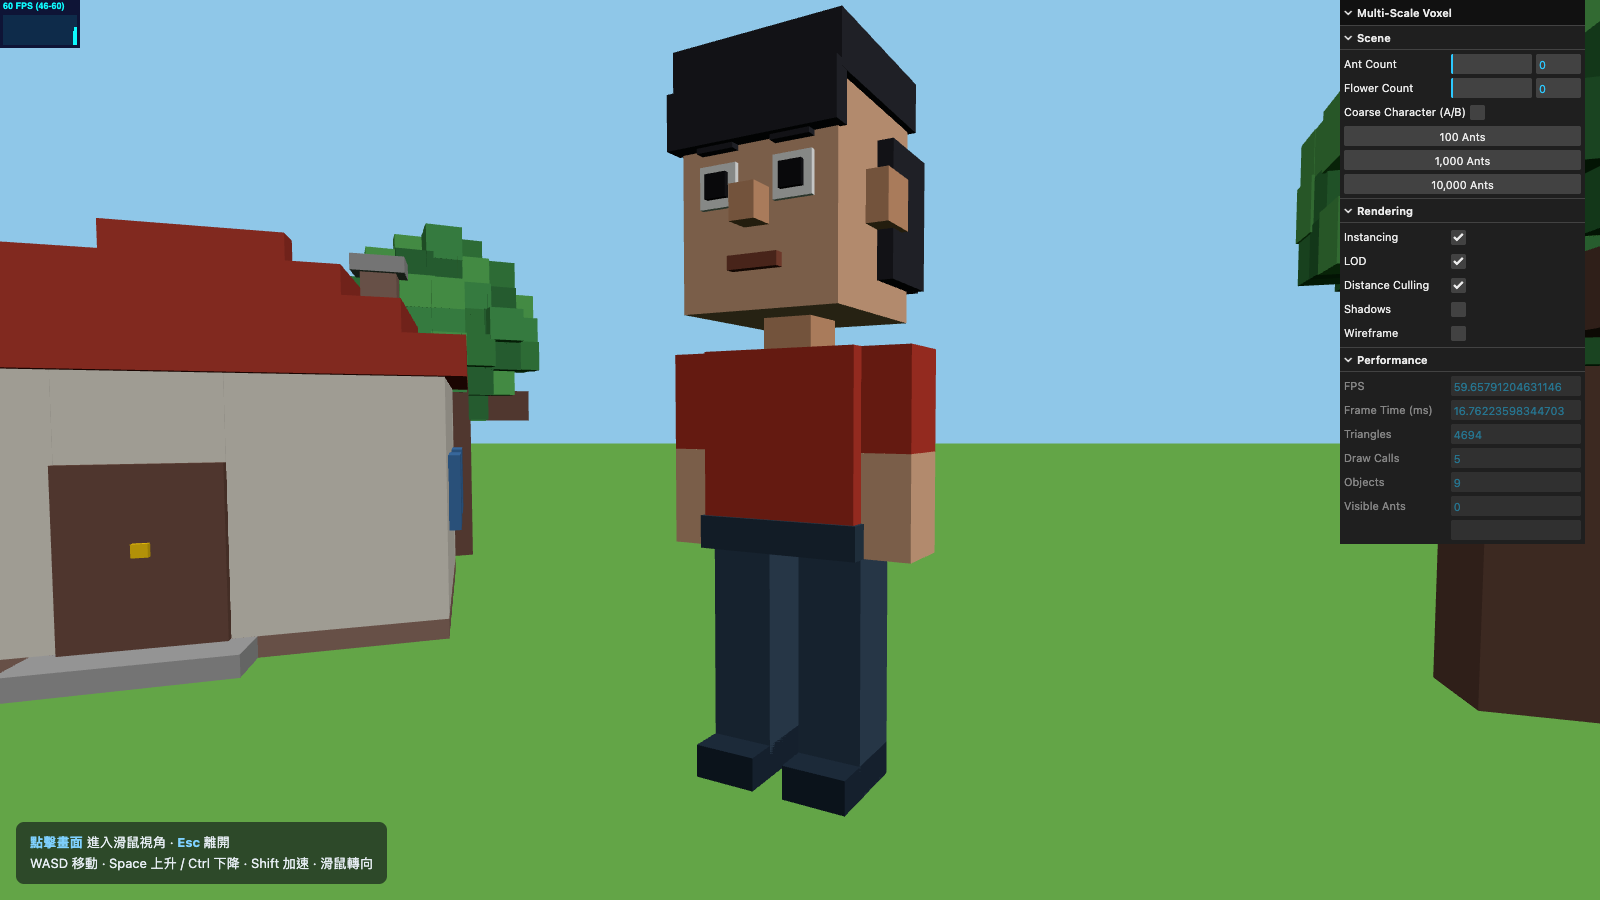
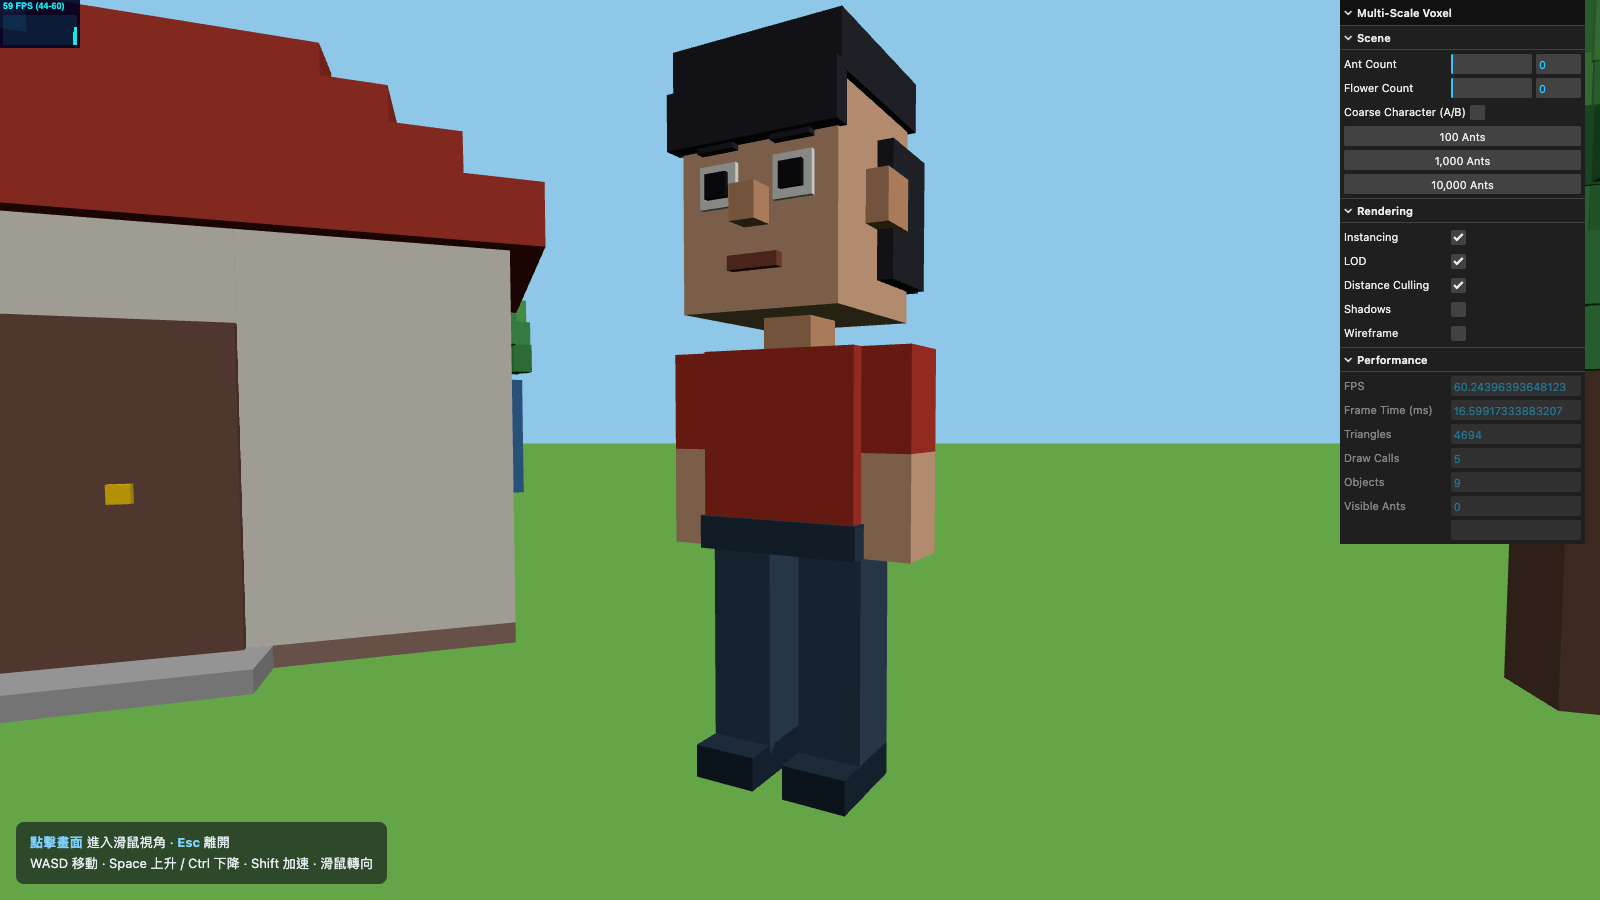
fix(world): 放大 House 使 PRD §7 的 House > Human 成立 (#7)
- House 整體約 1.25 倍放大：總高 21 → 31、門洞 8 → 14、佔地 24×18 → 30×22
- GROUND_ZONES 的 House 排除區半寬 13.5×12.5 → 17.5×15.5
- TREE_RADIUS 38 → 41，維持 House 屋簷與 Tree 樹冠的明確淨空
- house-facade 相機退到 z=27，避免拍進放大後的 Tree#2 樹冠
- 驗證報告補「尺度修正」段落，附 bbox 與 gl.readPixels 像素量測證據

diff --git a/src/objects/House.ts b/src/objects/House.ts
@@ -4,9 +4,12 @@ import { box, boxOnFloor, type VoxelModel } from '../voxel/Primitive';
  * House —— 粗粒度建築。
  *
  * 座標原點在房屋中心、地面高度 y = 0。
- * 佔地約 24 × 18，牆體使用 4 單位等級的方塊，屋頂為階梯式。
+ * 佔地約 30 × 22，牆體使用 4 單位等級的方塊，屋頂為階梯式。
+ *
+ * 尺度策略（PRD §7）：整體高約 31，明顯高於 Character（21.5），
+ * 使 `House > Human` 在視覺上成立。門洞高 14 仍小於角色身高，
+ * 角色不會實際走入，但 PRD §7 只要求視覺大小順序，未要求可進入。
  */
-
 const WALL = 0xd8d2c8;
 const FLOOR = 0x8d6e63;
 const ROOF = 0xb03a2e;
@@ -17,40 +20,40 @@ const STONE = 0x9e9e9e;
 export function createHouseModel(): VoxelModel {
   const primitives = [
     // 地板
-    boxOnFloor(0, 0, 0, 24, 1, 18, FLOOR),
+    boxOnFloor(0, 0, 0, 30, 1, 22, FLOOR),
 
-    // 四面外牆（厚度 2）
-    boxOnFloor(0, 1, -8, 24, 12, 2, WALL),
-    boxOnFloor(-11, 1, 0, 2, 12, 18, WALL),
-    boxOnFloor(11, 1, 0, 2, 12, 18, WALL),
+    // 四面外牆（厚度 2.5）
+    boxOnFloor(0, 1, -9.75, 30, 18, 2.5, WALL),
+    boxOnFloor(-13.75, 1, 0, 2.5, 18, 22, WALL),
+    boxOnFloor(13.75, 1, 0, 2.5, 18, 22, WALL),
 
-    // 前牆留門洞（x: -3 ~ 3，高 8）
-    boxOnFloor(-7.5, 1, 8, 9, 12, 2, WALL),
-    boxOnFloor(7.5, 1, 8, 9, 12, 2, WALL),
-    boxOnFloor(0, 9, 8, 6, 4, 2, WALL),
+    // 前牆留門洞（x: -4 ~ 4，高 14）
+    boxOnFloor(-9.5, 1, 9.75, 11, 18, 2.5, WALL),
+    boxOnFloor(9.5, 1, 9.75, 11, 18, 2.5, WALL),
+    boxOnFloor(0, 15, 9.75, 8, 4, 2.5, WALL),
 
     // 門
-    boxOnFloor(0, 1, 9.1, 6, 8, 0.6, WOOD),
-    boxOnFloor(0, 5, 9.5, 0.6, 0.6, 0.4, 0xf1c40f), // 門把
+    boxOnFloor(0, 1, 10.9, 8, 14, 0.8, WOOD),
+    boxOnFloor(0, 7.5, 11.4, 0.8, 0.8, 0.5, 0xf1c40f), // 門把
 
     // 側牆窗戶
-    box(-12.3, 7, -4, 0.6, 4, 4, GLASS),
-    box(-12.3, 7, 4, 0.6, 4, 4, GLASS),
-    box(12.3, 7, -4, 0.6, 4, 4, GLASS),
-    box(12.3, 7, 4, 0.6, 4, 4, GLASS),
+    box(-15.3, 10, -4, 0.8, 6, 6, GLASS),
+    box(-15.3, 10, 4, 0.8, 6, 6, GLASS),
+    box(15.3, 10, -4, 0.8, 6, 6, GLASS),
+    box(15.3, 10, 4, 0.8, 6, 6, GLASS),
 
     // 台階
-    boxOnFloor(0, 0, 10.5, 8, 1, 3, STONE),
+    boxOnFloor(0, 0, 12.75, 10, 1, 3.5, STONE),
 
-    // 屋頂（階梯式金字塔）
-    boxOnFloor(0, 13, 0, 26, 2, 20, ROOF),
-    boxOnFloor(0, 15, 0, 20, 2, 14, ROOF),
-    boxOnFloor(0, 17, 0, 14, 2, 8, ROOF),
-    boxOnFloor(0, 19, 0, 8, 2, 2, ROOF),
+    // 屋頂（階梯式金字塔，總高至 31）
+    boxOnFloor(0, 19, 0, 33, 3, 25, ROOF),
+    boxOnFloor(0, 22, 0, 26, 3, 18, ROOF),
+    boxOnFloor(0, 25, 0, 19, 3, 11, ROOF),
+    boxOnFloor(0, 28, 0, 12, 3, 4, ROOF),
 
     // 煙囪
-    boxOnFloor(8, 13, -5, 2, 7, 2, 0x8d6e63),
-    boxOnFloor(8, 20, -5, 3, 1, 3, STONE),
+    boxOnFloor(10, 19, -6, 2.5, 9, 2.5, 0x8d6e63),
+    boxOnFloor(10, 28, -6, 4, 1, 4, STONE),
   ];
 
   return { primitives };

diff --git a/src/world/placement.ts b/src/world/placement.ts
@@ -28,10 +28,11 @@ export const COARSE_CHARACTER_POSITION = { x: 1, z: 6 } as const;
 export const TREE_COUNT = 3;
 /**
  * 樹木距原點的距離。
- * 34 時 Tree#1 的樹冠邊緣 (z = -22.1) 幾乎貼上 House 屋簷 (z = -22)，
- * 雖然實測沒有真正相交，但視覺上像穿模；改為 38 留出明確淨空。
+ * House 放大（總高約 31）後屋簷後緣約在 z = -24.5，
+ * 半徑 38 時 Tree 樹冠前緣 (z = -25.7) 與屋簷僅剩 1.2 淨空，視覺上偏擠；
+ * 改為 41，樹冠前緣退到約 z = -28.3，維持與原設計相近的明確淨空。
  */
-export const TREE_RADIUS = 38;
+export const TREE_RADIUS = 41;
 
 /** 三棵樹均分在同一圓周上。 */
 export function treePositions(): readonly { readonly x: number; readonly z: number }[] {
@@ -43,11 +44,11 @@ export function treePositions(): readonly { readonly x: number; readonly z: numb
 
 /**
  * 排除區域。半寬已含物件實際佔地：
- * House 含屋簷（±13 / ±10）與台階（+z 至 0）、Tree 含樹冠（半徑 7.2）、
+ * House 含屋簷（±16.5 / ±12.5）與台階（+z 至 14.5）、Tree 含樹冠（半徑 7.2）、
  * Character 含手臂與鞋子。呼叫端再依物件大小加上額外 margin。
  */
 export const GROUND_ZONES: readonly GroundZone[] = [
-  { x: HOUSE_POSITION.x, z: HOUSE_POSITION.z, halfX: 13.5, halfZ: 12.5 },
+  { x: HOUSE_POSITION.x, z: HOUSE_POSITION.z, halfX: 17.5, halfZ: 15.5 },
   { x: CHARACTER_POSITION.x, z: CHARACTER_POSITION.z, halfX: 4.5, halfZ: 4.5 },
   { x: COARSE_CHARACTER_POSITION.x, z: COARSE_CHARACTER_POSITION.z, halfX: 4.5, halfZ: 4.5 },
   ...treePositions().map((position) => ({

diff --git a/docs/verification/README.md b/docs/verification/README.md
@@ -185,17 +185,16 @@ draw call 來源（200 朵時 168 個 draw call，佔絕大多數）。相比之
 
 | 檢查項 | 結果 |
 |---|---|
-| 四個尺度（House > Human > Flower > Ant）共存不違和 | ❌ **不通過**（見下方 #7） |
+| 四個尺度（House > Human > Flower > Ant）共存不違和 | ✅ 通過（House 已放大，見「尺度修正」） |
 | Character 有 Voxel 特色、不是 Minecraft 式巨大方塊臉 | ✅ 通過 |
 | 近看可辨識眼睛 / 眉毛 / 鼻子 / 嘴巴 / 耳朵 / 髮型 | ✅ 通過（耳朵已修正，見下） |
 | 遠看維持整體統一視覺語言 | ✅ 通過 |
 
 ### 首輪發現的問題與處理
 
-1. **尺度順序錯誤（違反 PRD §7）** — 仍待決策
-   House 高 21、Character 高 21.5 → **Human ≥ House**。更明顯的是門高只有 8，
-   角色卻是 21.5，等於角色有 2.6 倍門高，根本進不去。轉往 issue
-   [#7](https://github.com/chiisen/Minecraft/issues/7)。
+1. **尺度順序錯誤（違反 PRD §7）** — ✅ 已修正（[#7](https://github.com/chiisen/Minecraft/issues/7)）
+   首輪實測 House 高 21、Character 高 21.5 → **Human ≥ House**；門高只有 8，角色卻是
+   21.5。已將 House 放大為總高 31、門洞 14（詳見下方「尺度修正」）。
 
 2. **物件擺放互相穿模** — ✅ 已修正（[#12](https://github.com/chiisen/Minecraft/issues/12)）
    花與螞蟻原本隨機撒在整個圓環／圓盤上，會穿過建築。改為在取樣時避開「排除區域」
@@ -210,7 +209,8 @@ draw call 來源（200 朵時 168 個 draw call，佔絕大多數）。相比之
    > 範圍內，頭部插進屋簷」。經實測，Character (10,6) 與 House (-22,-12) 的佔地
    > （x[-35,-9] z[-22,0] vs x[6,14] z[3,9]）**根本沒有重疊**，是誤把 House 的區域座標
    > 當成世界座標判讀。Tree 與 House 的幾何重疊體積實測為 0（僅 0.1 間隙，視覺上像前後
-   > 遮擋）；`TREE_RADIUS` 仍由 34 加大到 38，以消除視覺疑慮並留出明確淨空。
+   > 遮擋）；`TREE_RADIUS` 仍由 34 加大到 38，以消除視覺疑慮並留出明確淨空
+   > （House 放大後再調整為 41，見「尺度修正」）。
 
 3. **Tree 樹冠不成形** — ✅ 已修正（[#13](https://github.com/chiisen/Minecraft/issues/13)）
    原本在 46 次取樣、半徑 8 的球內只放進 22~33 顆方塊（覆蓋率僅 3.5%~5.2%），視覺上
@@ -251,9 +251,9 @@ draw call 來源（200 朵時 168 個 draw call，佔絕大多數）。相比之
   為螞蟻（#14）、花卉完整且貼地、花瓣十字完整（Phase 4）、房屋細節清楚。
 - 各物件的**渲染語言一致**（同一材質、vertex color），整體視覺不衝突。
 
-**未通過的部分**：PRD §7 明確要求視覺順序 `House > Human > Flower > Ant`。
-目前實測 Character 高 21.5、House 高 21（門高僅 8），Human **≥** House，且角色
-進不去門。轉往 issue #7 決策。
+**原本未通過的部分（現已修正）**：PRD §7 要求視覺順序 `House > Human > Flower > Ant`。
+首輪實測 Character 高 21.5、House 高 21（門高僅 8），Human **≥** House。issue #7 決定
+**只放大 House、不動 Character**，修正後 House 高 31（見下方「尺度修正」），順序已成立。
 
 ### 2. Character 是否明顯比傳統方塊人物自然？
 
@@ -335,16 +335,74 @@ draw call 來源（200 朵時 168 個 draw call，佔絕大多數）。相比之
 
 前置：
 
-1. **尺度決策（issue #7）**：目前唯一未通過的驗收項（Human ≥ House），進遊戲前需定。
+1. ~~**尺度決策（issue #7）**：目前唯一未通過的驗收項（Human ≥ House），進遊戲前需定。~~
+   → **已解決**：House 放大為總高 31，`House > Human` 成立（見「尺度修正」）。
 2. **實機 GPU 效能（issue #8）**：本 demo 在 SwiftShader 下無法評估真實效能，
    陰影 + 10,000 隻 InstancedMesh 的實機數字需補。
 
 總結：**通過但有限制地通過**。架構與「量測後再最佳化」的工程紀律都建立好了，
-剩下的工作是補齊實機數據與一個尺度決策。
+剩下的工作是補齊實機數據。
+
+## 尺度修正：放大 House 使 PRD §7 成立（issue #7）
+
+### 決策
+
+- `1 Unit` **維持為「最小可表示單位」**，不錨定現實公尺（符合 PRD §5）。
+  所有物件皆不縮放，僅調整 House 幾何。
+- **只動 House、不動 Character**（Character 維持 21.5）。「只加門高、不動 House」
+  在幾何上不可行——門高受牆高限制，且 House 總高仍 ≤ Character，`House > Human`
+  不會成立，因此必須整體放大 House。
+
+### 改動
+
+`src/objects/House.ts` 整體約 1.25 倍放大、高度拉到 31：
+
+| 部位 | 修正前 | 修正後 |
+|---|---:|---:|
+| 佔地（寬 × 深） | 24 × 18 | 30 × 22 |
+| 牆高 | 12 | 18 |
+| 門洞高 | 8 | 14 |
+| 屋頂總高 | 21 | **31** |
+| 屋簷（寬 × 深） | 26 × 20 | 33 × 25 |
+
+`src/world/placement.ts`：House 排除區域半寬 13.5 × 12.5 → **17.5 × 15.5**；
+`TREE_RADIUS` 38 → **41**（House 變深後屋簷後緣到 z = -24.5，半徑 38 時樹冠前緣
+僅剩 1.2 淨空，加大到 41 恢復約 3.8 的明確淨空）。
+
+`tools/capture-screenshots.mjs`：`03-house-facade` 相機退到 `z = 27`（再往後會撞進
+Tree#2 樹冠 z 28.3~42.7）。
+
+### 量測（以程式碼實測，不靠目測）
+
+各物件 bounding box（`/tmp` 量測腳本，`1 Unit = 最小可表示單位`）：
+
+| 物件 | prims | 寬 | 高 | 深 |
+|---|---:|---:|---:|---:|
+| **House** | 20 | 33.0 | **31.0** | 27.0 |
+| Character | 27 | 8.0 | 21.5 | 6.3 |
+| Tree | 171 | 14.5 | 27.3 | 14.4 |
+| Flower | 7 | 3.0 | 4.0 | 3.0 |
+| Ant | 15 | 4.6 | 1.9 | 2.3 |
+
+順序 **House(31) > Human(21.5) > Flower(4) > Ant(1.9)** 成立（Tree 不在 PRD §7 的
+排序要求內）。
+
+> **視覺工具誤判紀錄**：`connector__matrix__describe_images` 對 `02-scale-lineup.png`
+> 判讀為「Character 明顯比 House 高、比例完全顛倒」，與幾何矛盾。改以 Playwright
+> 於 `gl.readPixels` 讀實際 framebuffer 量測輪廓：House 屋頂最高點在畫面 y = 294
+> （x ≈ 640 的寬大屋頂結構），Character 最高點在 y = 322 → **House 在畫面上確實高
+> 28 px**。再次確認此視覺判讀工具在尺度問題上不可靠，以程式碼 / 像素量測為準。
+
+### 驗證
+
+- `npx tsc --noEmit` = 通過；`npm run build` 通過（525.48 kB / gzip 133.69 kB）。
+- 10 張截圖重跑、非空白，`console errors: 0`。
+- `03-house-facade.png` 判讀確認整棟 House 完整入鏡、屋頂未被裁切。
+- 重新量測 draw call / 三角形未回歸（baseline 20 draw call / 10,958 triangles）。
 
 ## 後續
 
-- 尺度比例：issue #7（**需決策**，目前唯一未通過的檢查項）
+- 尺度比例：issue #7（**已完成**，House 放大為總高 31）
 - 擺放穿模（#12）、Tree 樹冠（#13）、Ant 辨識度（#14）、Character 耳朵：**已修正並複驗**
 - Phase 2 效能 Benchmark（#4）：**已完成（SwiftShader）**，實機 GPU 數字待補
 - Phase 3 Character A/B 對照（#5）：**已完成**，結論為保留細尺度角色
